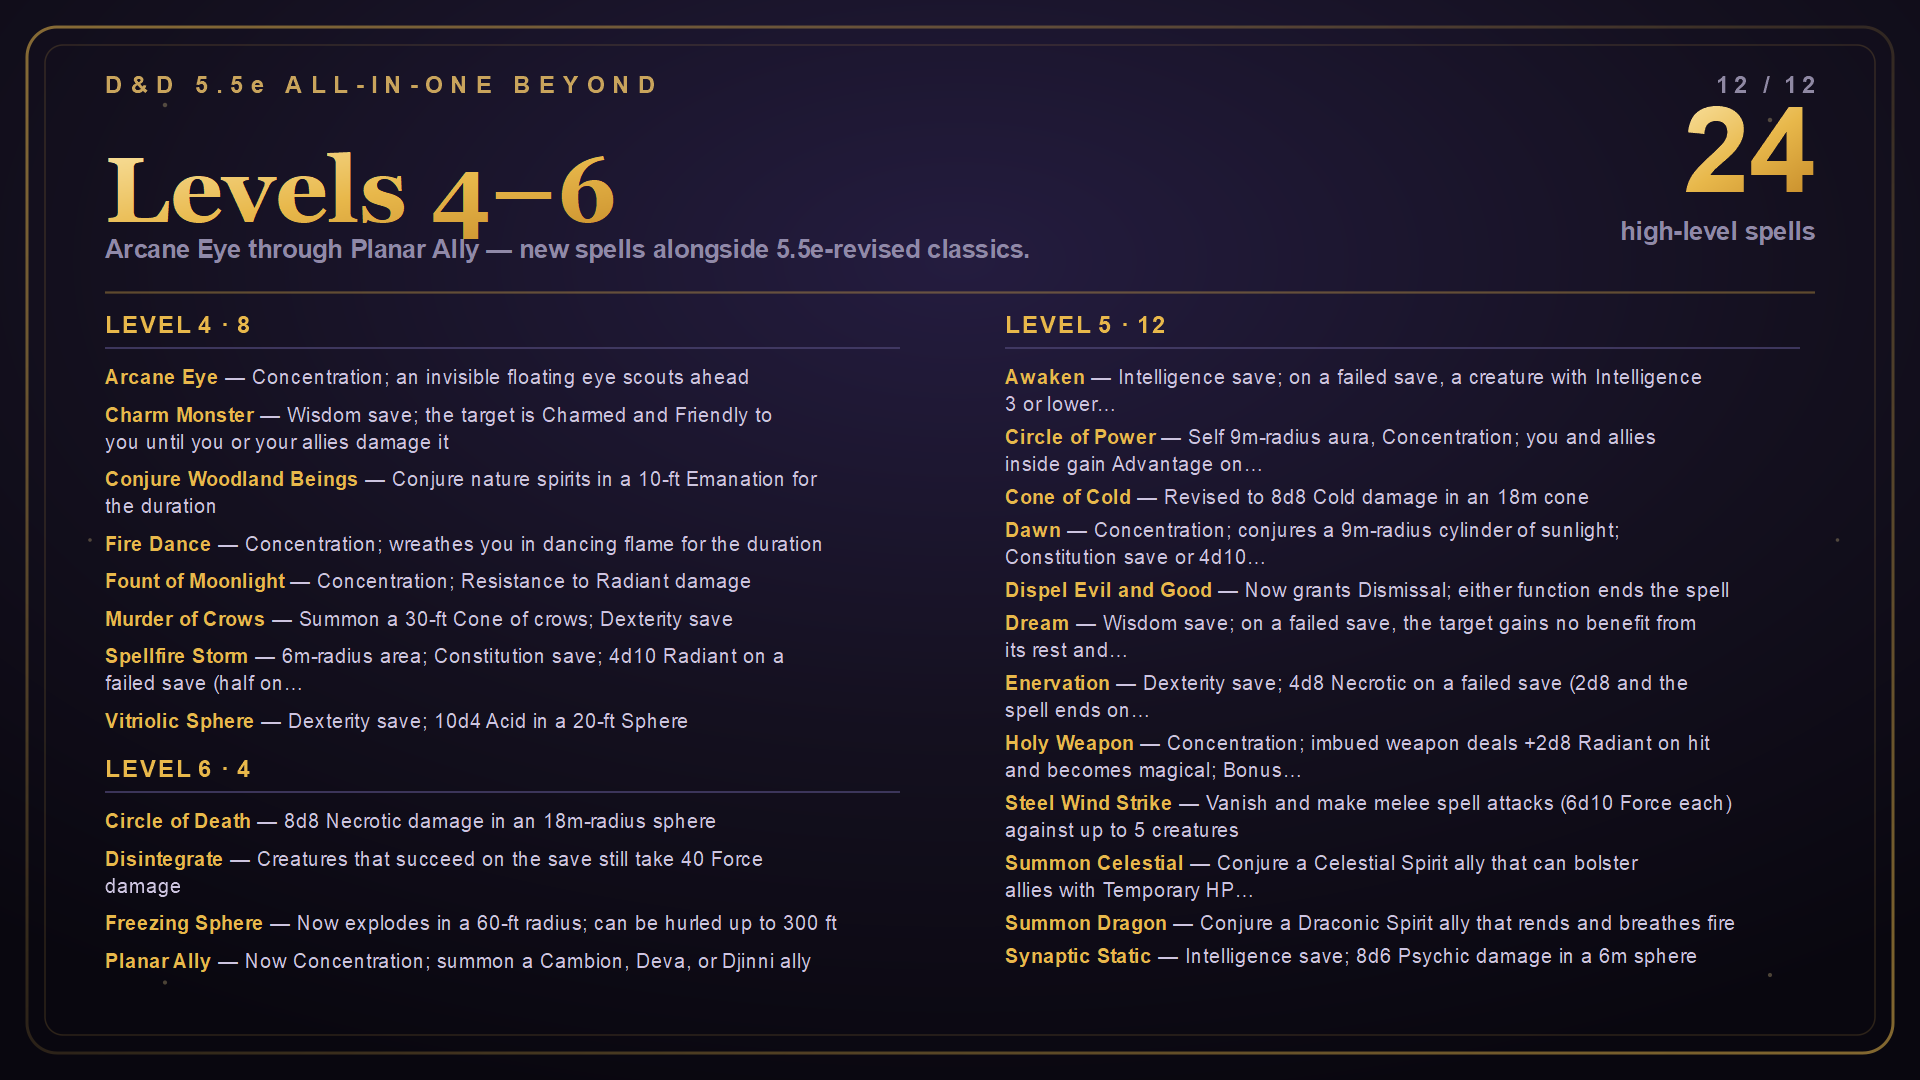
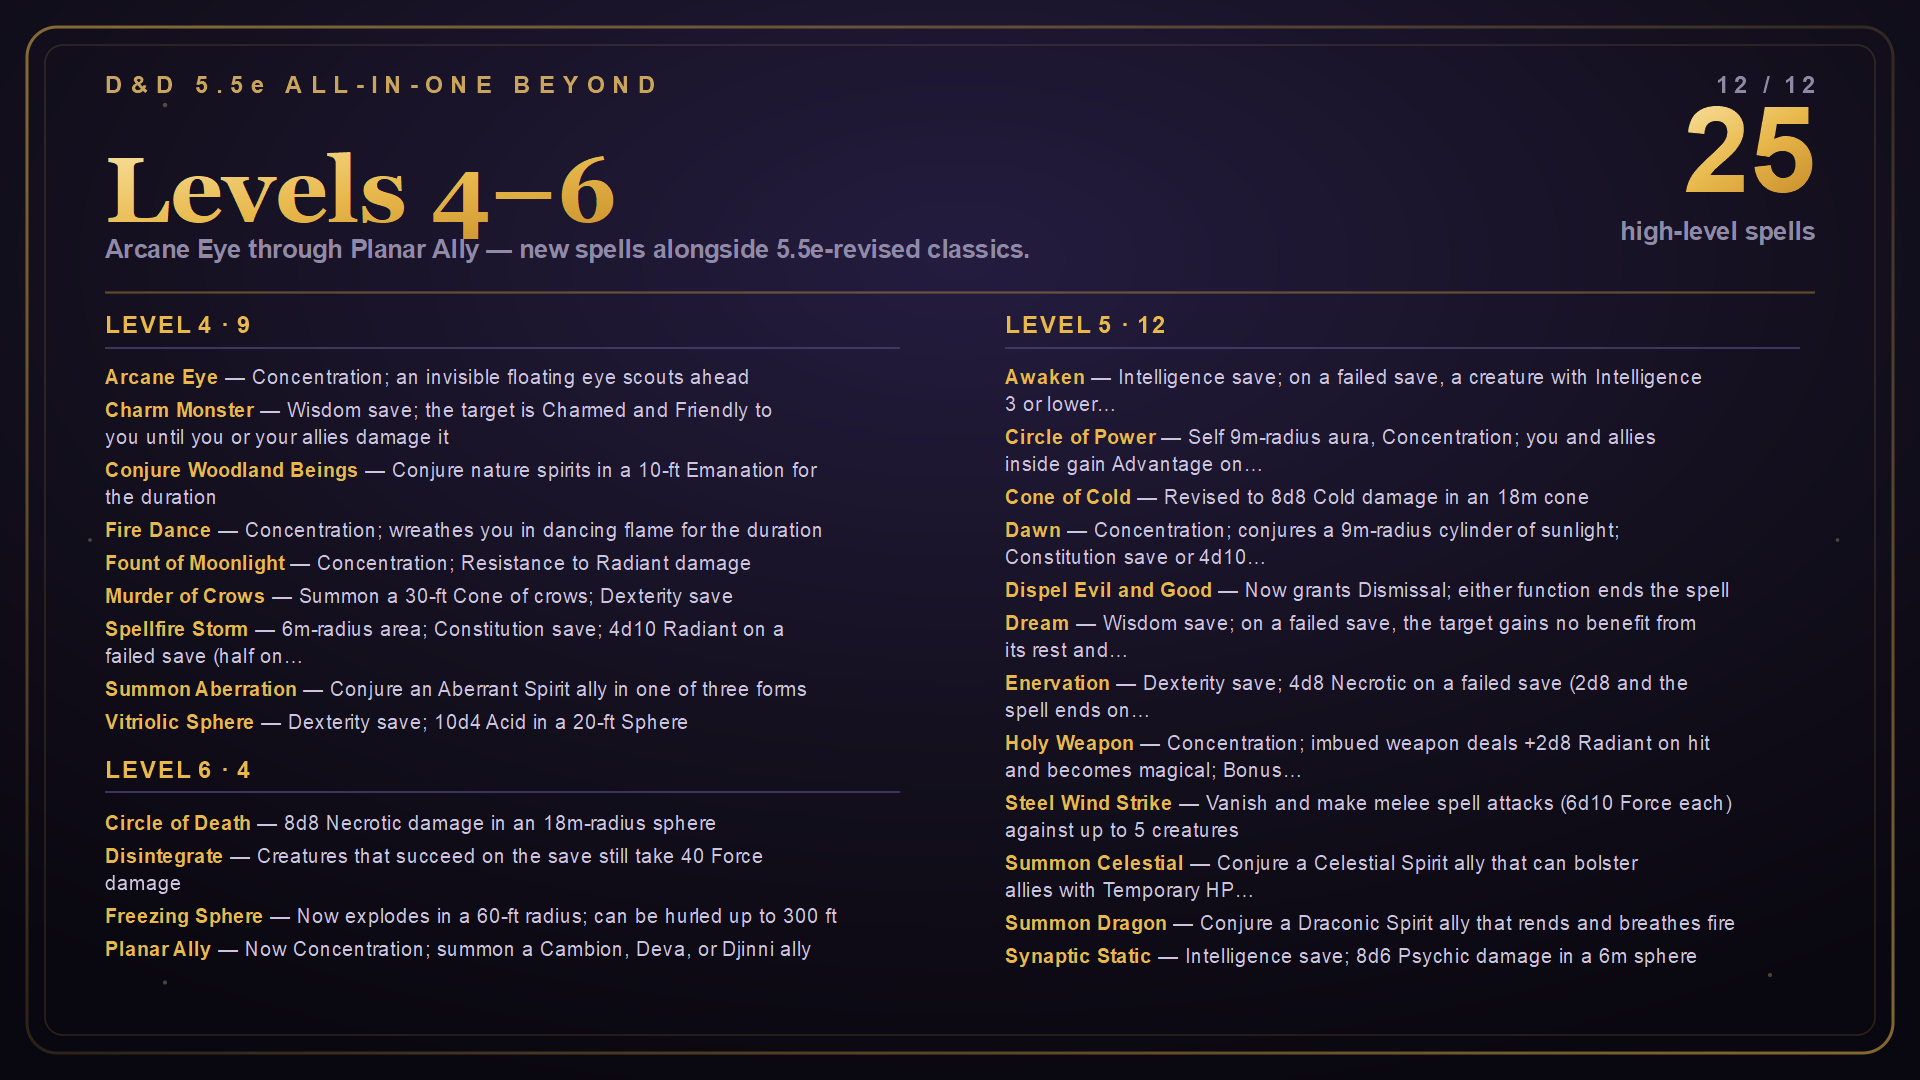
docs(spells): list Summon Aberration among the new level 4 spells

Changed region(s): [[0.0312, 0.3667, 0.4375, 0.6722], [0.0625, 0.7028, 0.4375, 0.9167], [0.9062, 0.0917, 0.9375, 0.1833]]

diff --git a/README_Modio.html b/README_Modio.html
@@ -92,7 +92,7 @@
   <li><strong>Level 1:</strong> Absorb Elements, Armor of Agathys, Ballistic Smite, Body Warping of Gorgoroth, Catapult, Chromatic Orb, Cloak of Shadow, Color Spray, Command, Cure Wounds, Dissonant Whispers, False Life, Healing Word, Hell's Lash, Hideous Laughter, Hungering Blade, Spectral Slash, Spellfire Flare, Thorn Armor, Thunderous Smite, Tide of Darkness, Umbral Tendril, Wardaway, Witch Bolt, Wrathful Smite.</li>
   <li><strong>Level 2:</strong> Aganazzar's Scorcher, Alter Self, Arcane Vigor, Barkskin, Darkbolt, Dazing Blast, Death Armor, Dragon's Breath, Elminster's Elusion, Find Steed, Fire Rune, Gust of Wind, Lesser Restoration, Mind Spike, Moonbeam, Prayer of Healing, Rime's Binding Ice, Searing Orb, Shadow Blade, Snilloc's Snowball Swarm, Summon Beast, Tasha's Mind Whip, Warding Bond, Web.</li>
   <li><strong>Level 3:</strong> Animate Dead, Ashardalon's Stride, Astral Flood, Aura of Vitality, Bestow Curse, Cacophonic Shield, Conjure Barrage, Counterspell, Crusader's Mantle, Elemental Exhalation, Haste, Laeral's Silver Lance, Lightning Arrow, Murmurs of Doom, Phantom Steed, Summon Fey, Summon Undead, Tidal Wave, Trollblood Infusion, Void Strike.</li>
-  <li><strong>Level 4:</strong> Arcane Eye, Charm Monster, Conjure Woodland Beings, Fire Dance, Fount of Moonlight, Murder of Crows, Spellfire Storm, Vitriolic Sphere.</li>
+  <li><strong>Level 4:</strong> Arcane Eye, Charm Monster, Conjure Woodland Beings, Fire Dance, Fount of Moonlight, Murder of Crows, Spellfire Storm, Summon Aberration, Vitriolic Sphere.</li>
   <li><strong>Level 5:</strong> Awaken, Circle of Power, Cone of Cold, Dawn, Dispel Evil and Good, Dream, Enervation, Holy Weapon, Steel Wind Strike, Summon Celestial, Summon Dragon, Synaptic Static.</li>
   <li><strong>Level 6:</strong> Circle of Death, Disintegrate, Freezing Sphere, Planar Ally.</li>
 </ul>

diff --git a/README.md b/README.md
@@ -102,7 +102,7 @@ Acid Splash, Blade Ward, Blood Bolt, Booming Blade, Bursting Sinew, Finger Guns,
 - Level 1: Absorb Elements, Armor of Agathys, Ballistic Smite, Body Warping of Gorgoroth, Catapult, Chromatic Orb, Cloak of Shadow, Color Spray, Command, Cure Wounds, Dissonant Whispers, False Life, Healing Word, Hell's Lash, Hideous Laughter, Hungering Blade, Spectral Slash, Spellfire Flare, Thorn Armor, Thunderous Smite, Tide of Darkness, Umbral Tendril, Wardaway, Witch Bolt, Wrathful Smite.
 - Level 2: Aganazzar's Scorcher, Alter Self, Arcane Vigor, Barkskin, Darkbolt, Dazing Blast, Death Armor, Dragon's Breath, Elminster's Elusion, Find Steed, Fire Rune, Gust of Wind, Lesser Restoration, Mind Spike, Moonbeam, Prayer of Healing, Rime's Binding Ice, Searing Orb, Shadow Blade, Snilloc's Snowball Swarm, Summon Beast, Tasha's Mind Whip, Warding Bond, Web.
 - Level 3: Animate Dead, Ashardalon's Stride, Astral Flood, Aura of Vitality, Bestow Curse, Cacophonic Shield, Conjure Barrage, Counterspell, Crusader's Mantle, Elemental Exhalation, Haste, Laeral's Silver Lance, Lightning Arrow, Murmurs of Doom, Phantom Steed, Summon Fey, Summon Undead, Tidal Wave, Trollblood Infusion, Void Strike.
-- Level 4: Arcane Eye, Charm Monster, Conjure Woodland Beings, Fire Dance, Fount of Moonlight, Murder of Crows, Spellfire Storm, Vitriolic Sphere.
+- Level 4: Arcane Eye, Charm Monster, Conjure Woodland Beings, Fire Dance, Fount of Moonlight, Murder of Crows, Spellfire Storm, Summon Aberration, Vitriolic Sphere.
 - Level 5: Awaken, Circle of Power, Cone of Cold, Dawn, Dispel Evil and Good, Dream, Enervation, Holy Weapon, Steel Wind Strike, Summon Celestial, Summon Dragon, Synaptic Static.
 - Level 6: Circle of Death, Disintegrate, Freezing Sphere, Planar Ally.
 
